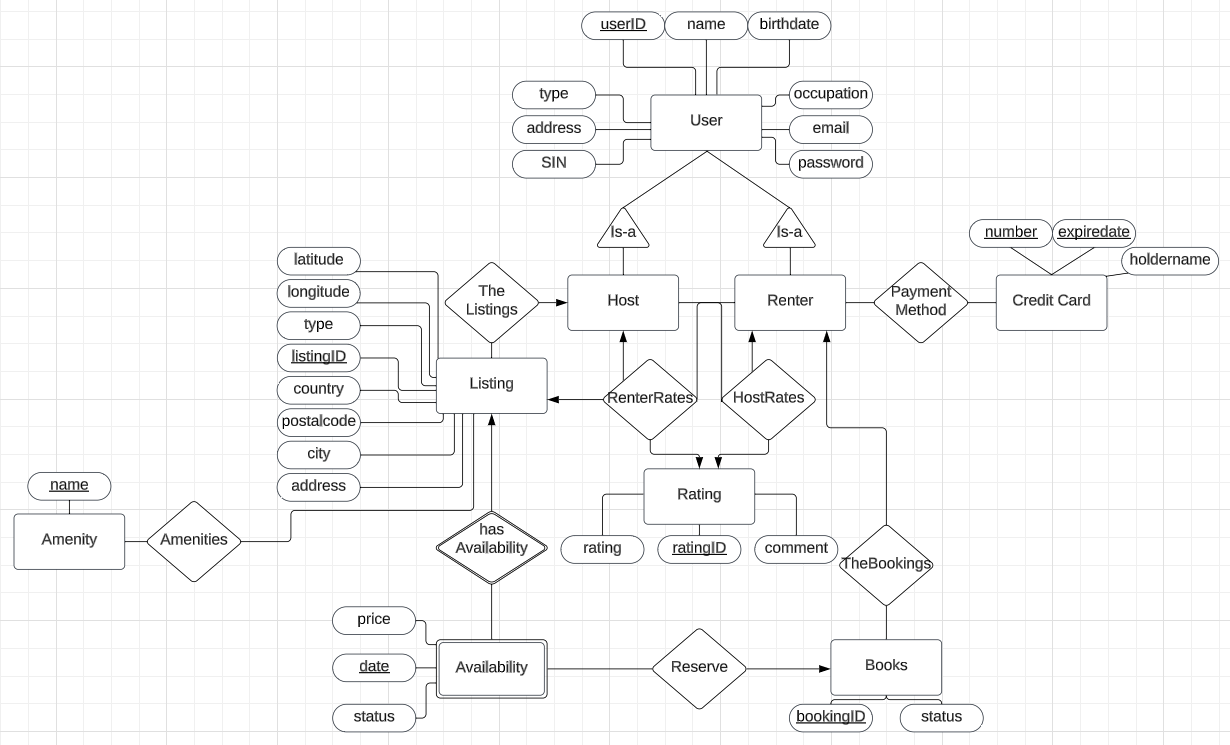
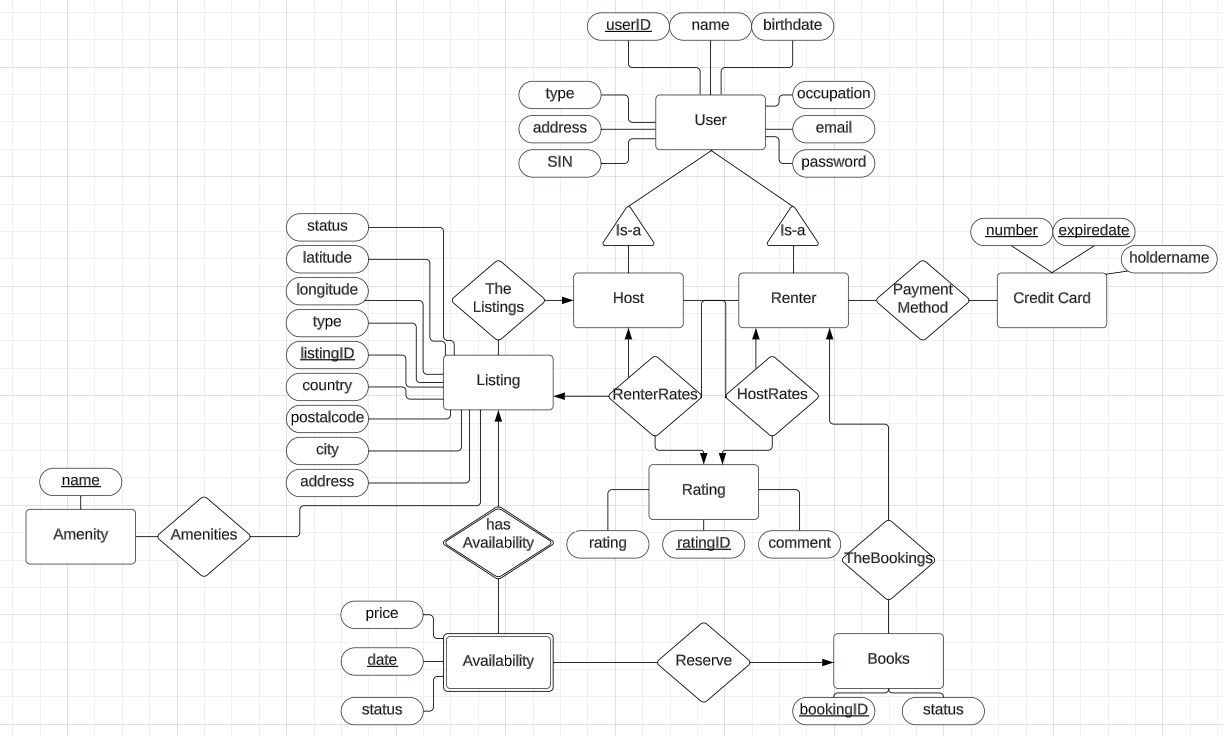
Modified .ddl, schema, diagram to include status to listing

diff --git a/project/src/ListingDB.java b/project/src/ListingDB.java
@@ -1,3 +1,87 @@
+import java.sql.*;
 
+import com.mysql.cj.x.protobuf.MysqlxPrepare.Prepare;
 public class ListingDB {
+  public static Listing addListing (String address, String type)
+  {
+    try{
+      Connection con = Connector.getConnection();
+      if (con != null)
+      {
+        String query = "INSERT INTO Listing(type, address, status) VALUES (?, ?, 'Active')";
+        PreparedStatement s = con.prepareStatement(query);
+        s.setString(1, type);
+        s.setString(2, address);
+        Listing list = null;
+        if (s.executeUpdate() >= 1)
+        {
+          ResultSet r = s.getGeneratedKeys();
+          if (r.next())
+            list = new Listing(r.getInt("listingID"), type, address, "Active");
+          r.close();
+        }
+        s.close();
+        con.close();
+        return list;
+      }
+      return null;
+    }
+    catch (SQLException e)
+    {
+      e.printStackTrace();
+      return null;
+    }
+  }
+  public static boolean addLocation (double latitude, double longitude, String postalcode, String address, String city, String country)
+  {
+    try{
+      Connection con = Connector.getConnection();
+      if (con != null)
+      {
+        String query = "INSERT INTO LocationInfo(latitude, longitude, postalcode, address, city, country) VALUES (?, ?, ?, ?, ?, ?)";
+        PreparedStatement s = con.prepareStatement(query);
+        s.setDouble(1, latitude);
+        s.setDouble(2, longitude);
+        s.setString(3, postalcode);
+        s.setString(4, address);
+        s.setString(5, city);
+        s.setString(6, country);
+        boolean success = s.executeUpdate() >= 1;
+        s.close();
+        con.close();
+        return success;
+      }
+      return false;
+    }
+    catch (SQLException e)
+    {
+      e.printStackTrace();
+      return false;
+    }
+  }
+  public static boolean isLocationActive (String address)
+  {
+    try{
+      Connection con = Connector.getConnection();
+      if (con != null)
+      {
+        String query = "SELECT listingID FROM Listing WHERE address = ? AND status = 'Active'";
+        PreparedStatement s = con.prepareStatement(query);
+        s.setString(1, address);
+        ResultSet r = s.executeQuery();
+        boolean success = r.next();
+        r.close();
+        s.close();
+        con.close();
+        return success;
+      }
+      return false;
+    }
+    catch (SQLException e)
+    {
+      e.printStackTrace();
+      return false;
+    }
+  }
+
 }

diff --git a/project/src/Listing.java b/project/src/Listing.java
@@ -1,0 +1,13 @@
+public class Listing {
+  int listingID;
+  String type;
+  String address;
+  String status;
+  public Listing(int listingID, String type, String address, String status)
+  {
+    this.listingID = listingID;
+    this.type = type;
+    this.address = address;
+    this.status = status;
+  }
+}

diff --git a/schema.md b/schema.md
@@ -1,7 +1,7 @@
 ## **Relational schema:**  
 ***User*** (<ins>userID</ins>, name, address, birthdate, occupation, type, sin, email, password)  
 ***CreditCard*** (<ins>cardnumber</ins>, <ins>expirydate</ins>, holdername)  
-***Listing*** (<ins>listingID</ins>, type, latitude, longitude, postalcode, address, city, country)  
+***Listing*** (<ins>listingID</ins>, type, latitude, longitude, postalcode, address, city, country, status)  
 ***Availability*** (<ins>date</ins>, <ins>listingID</ins>, price, status)  
 ***Rating*** (<ins>ratingID</ins>, rating, comment)  
 ***Amenities*** (<ins>name</ins>, <ins>listingID</ins>)  
@@ -67,7 +67,7 @@ Stays unchanged.
 
 ***Listing*** (<ins>listingID</ins>, type, latitude, longitude, postalcode, address, city, country)  
 Decomposes into:
-  - ***Listing*** (<ins>listingID</ins>, type, address)  
+  - ***Listing*** (<ins>listingID</ins>, type, address, status)  
   - ***LocationInfo*** (latitude, longitude, postalcode, <ins>address</ins>, city, country)  
 
 ***Availability*** (<ins>date</ins>, <ins>listingID</ins>, price, status)  
